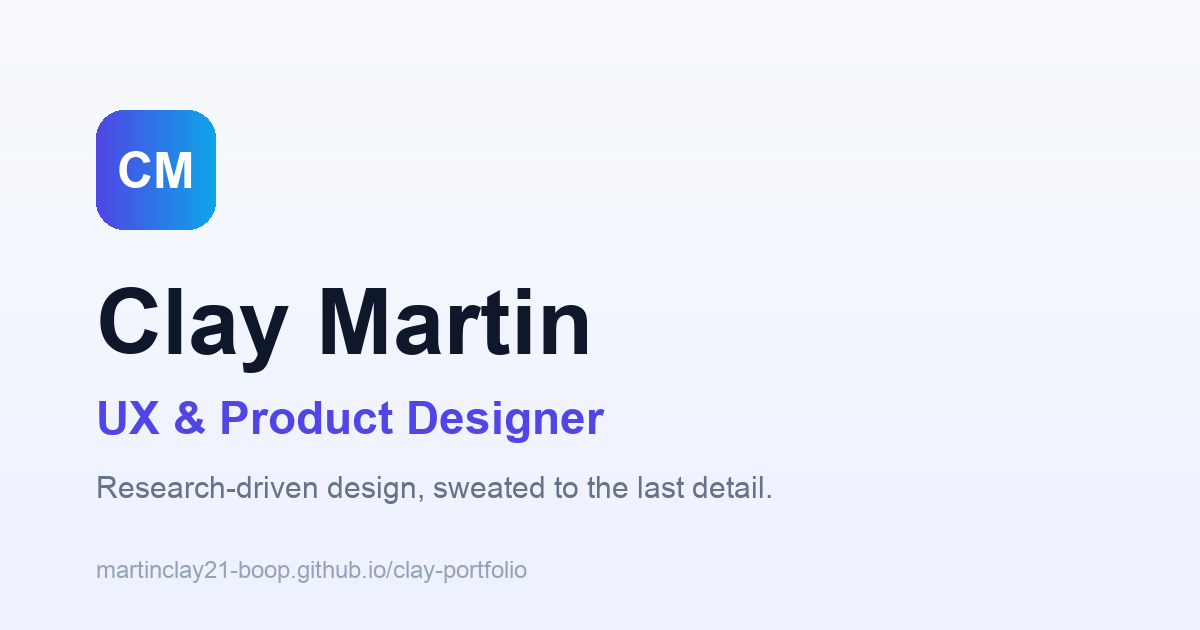
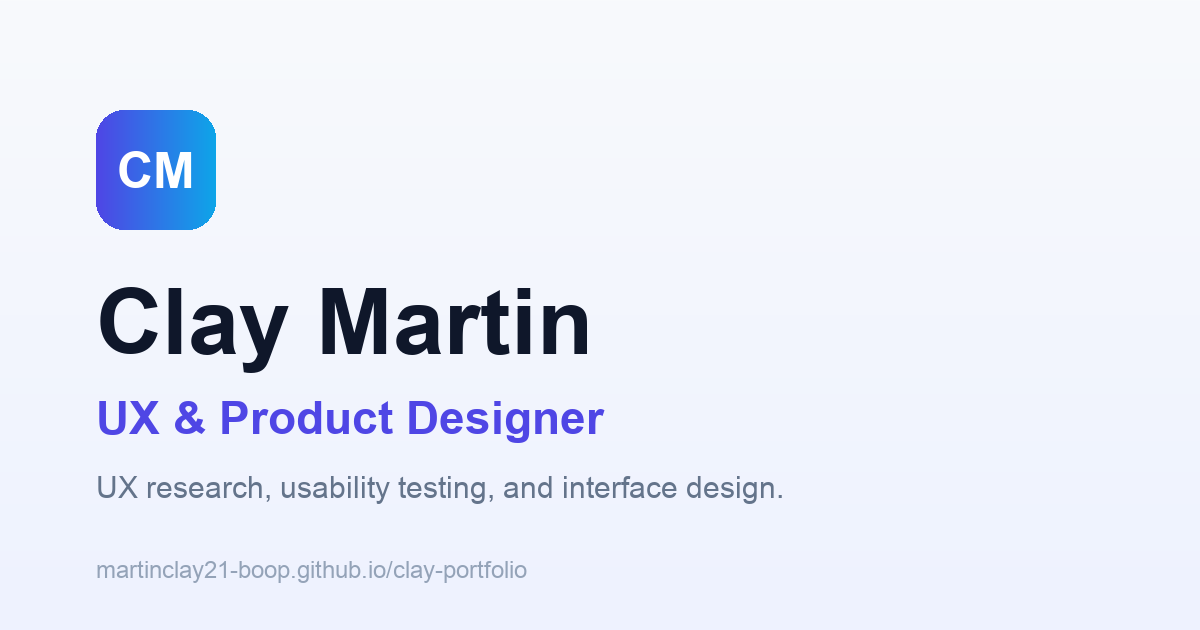
Recalibrate voice: plain, industry-standard UX language
Per Clay: he'd never actually say "root need" or "sweat the details," and
the copy leaned too hard on those as recurring motifs, reading as a
manufactured voice. Rewrote toward plain, industry-standard language that
is more informative and less first-person story, while staying readable.

- Removed the crutch phrases site-wide (root need, sweat the details,
  puzzle / no single right answer, let it fail, the small stuff, chasing
  that feeling, eye for composition)
- Hero (all lenses): recruiter "Research-backed product design"; designer
  "Grounded in research and iteration"; default + subs now describe the
  actual process (research, wireframing, prototyping, usability testing)
- Designer process strip renamed to standard UX stages: Research,
  Synthesize, Wireframe, Prototype & test, Iterate & refine
- About: bio rewritten as an informative summary of skills and process;
  "What I believe" -> "My approach" with concrete method statements
- Also the surgical humanizer fixes: SpeakSyncAI (passive + "not a
  feature" parallelism) and MU Luxembourg (brochure-y phrasing)
- Updated meta/OG description and regenerated the share image tagline
  ("UX research, usability testing, and interface design")

Verified in-browser: new hero/process/about copy renders across lenses,
zero crutch phrases on the page, build clean.

Changed region(s): [[0.0617, 0.754, 0.6475, 0.8143]]

diff --git a/components/audience/content.ts b/components/audience/content.ts
@@ -60,7 +60,7 @@ export const HERO_DEFAULT: HeroCopy = {
   showBadge: true,
   headLead: "Hi, I'm Clay Martin,",
   headAccent: "UX designer & researcher.",
-  sub: "I start every project with the root need, the real thing someone's trying to do, then treat the rest like a puzzle worth solving: research, iteration, and a lot of care for the small details.",
+  sub: "I work across the full UX process, from user research and wireframing to prototyping in Figma and usability testing. My focus is understanding the real problem before designing the solution, then refining it until it holds up with users.",
   primary: { label: "View my work", href: "#projects" },
   secondary: { label: "Contact me", href: "#contact" },
 };
@@ -69,9 +69,9 @@ export const HERO_BY_AUDIENCE: Record<Audience, HeroCopy> = {
   recruiter: {
     eyebrow: "For recruiters & hiring managers",
     showBadge: true,
-    headLead: "Research in,",
-    headAccent: "experiences that work out.",
-    sub: "UX designer and researcher with two internships and six end-to-end case studies. I find the root need, sweat the details, and keep a team's work feeling cohesive.",
+    headLead: "Research-backed",
+    headAccent: "product design.",
+    sub: "UX designer and researcher with two design internships and six end-to-end case studies. Strong in user research, usability testing, and turning findings into clear, accessible interfaces.",
     primary: { label: "See the work", href: "#projects" },
     secondary: { label: "Get in touch", href: "#contact" },
     resume: { label: "Résumé", href: RESUME_HREF },
@@ -85,9 +85,9 @@ export const HERO_BY_AUDIENCE: Record<Audience, HeroCopy> = {
   designer: {
     eyebrow: "For fellow designers",
     showBadge: false,
-    headLead: "Design is a puzzle",
-    headAccent: "with no single right answer.",
-    sub: "So I start with context and the root need, look everywhere for inspiration, then interpret and build, and let it fail a few times until the small stuff is right.",
+    headLead: "Grounded in",
+    headAccent: "research and iteration.",
+    sub: "My process is research-led: interviews and usability testing up front, then synthesis, wireframing, and several rounds of iteration before anything ships.",
     primary: { label: "See my process", href: "#projects" },
     secondary: { label: "Talk craft", href: "#contact" },
   },
@@ -110,23 +110,23 @@ export interface AboutCopy {
   headAccent: string;
 }
 export const ABOUT_DEFAULT: AboutCopy = {
-  headLead: "I design by starting with the",
-  headAccent: "root need.",
+  headLead: "How I",
+  headAccent: "approach design.",
 };
 export const ABOUT_BY_AUDIENCE: Record<Audience, AboutCopy> = {
-  recruiter: { headLead: "A designer who ships,", headAccent: "root need to final pixel." },
-  designer: { headLead: "Backed by purpose,", headAccent: "shaped by iteration." },
+  recruiter: { headLead: "A designer who ships,", headAccent: "research to final pixel." },
+  designer: { headLead: "Grounded in research,", headAccent: "refined by iteration." },
 };
 export function aboutFor(a: Audience | null): AboutCopy {
   return a ? ABOUT_BY_AUDIENCE[a] : ABOUT_DEFAULT;
 }
 
-// What I believe — short design principles, in Clay's voice (About section)
+// How I work — concrete method statements (About section)
 export const PRINCIPLES: { t: string; d: string }[] = [
-  { t: "Start with the root need", d: "A design out of context is just decoration. I get the real need first." },
-  { t: "There's no single right answer", d: "Only the best interpretation of the problem in front of me." },
-  { t: "Iteration over perfection", d: "You build, it fails, and each failure shows you the next thing to fix." },
-  { t: "Purpose first, polish last", d: "Backed by research, but it should still look good and feel effortless." },
+  { t: "Understand the problem first", d: "I dig into user needs and requirements before proposing a solution, so the design solves the actual problem." },
+  { t: "Test with real users", d: "Usability testing and feedback guide the work instead of assumptions." },
+  { t: "Iterate toward the details", d: "I refine through multiple rounds, down to spacing, hierarchy, and interaction states." },
+  { t: "Design for accessibility", d: "Contrast, structure, and clear interaction are built in from the start, not added at the end." },
 ];
 
 // ---- Skills section intro line, per lens ----
@@ -150,7 +150,7 @@ export const RECRUITER_TLDR = {
   quote:
     "His contributions served as the connective tissue of the sprint. Wherever something felt disconnected, he stepped in and made it feel cohesive.",
   highlights: [
-    "6 end-to-end case studies, from root need to tested, high-fidelity prototypes",
+    "6 end-to-end case studies, from research to tested, high-fidelity prototypes",
     "2 design internships (Damar Staffing and Spokenote)",
     "ICAgile Certified · IRB (Human-Subjects) Certified",
   ],
@@ -160,11 +160,11 @@ export const RECRUITER_TLDR = {
 
 // Designer: the "how I work" process strip
 export const DESIGNER_PROCESS: { step: string; blurb: string }[] = [
-  { step: "Find the root need", blurb: "First I get clear on what's actually being asked, and the context it lives in. Miss this and everything after is off." },
-  { step: "Gather the pieces", blurb: "I look everywhere for inspiration and dig into real user needs. No single right answer, so I collect a lot before I commit." },
-  { step: "Interpret & build", blurb: "All of it turns into wireframes and flows, something that does exactly what was asked, and maybe a little more." },
-  { step: "Test, and let it fail", blurb: "I put it in front of real people expecting it to break. Every failure points straight to the next fix." },
-  { step: "Sweat the details", blurb: "Then the small stuff, a color a shade off, a button a few pixels over. Nothing's ever perfect, but it gets close." },
+  { step: "Research", blurb: "Interviews, surveys, and usability testing to understand user needs and the problem behind the request." },
+  { step: "Synthesize", blurb: "Turn findings into journey maps, user flows, and a clear problem statement the team can align on." },
+  { step: "Wireframe", blurb: "Low-fidelity structure first: hierarchy, layout, and content before any visual polish." },
+  { step: "Prototype & test", blurb: "High-fidelity Figma prototypes, then usability testing with real users to catch what doesn't work." },
+  { step: "Iterate & refine", blurb: "Multiple rounds of refinement, down to spacing, states, and accessibility, before it ships." },
 ];
 
 // ---- Per-lens project treatment ----

diff --git a/components/About.tsx b/components/About.tsx
@@ -55,34 +55,31 @@ export default function About() {
             <div className="space-y-4 text-slate-600 leading-relaxed text-base">
               <p>
                 I'm a UX and product designer finishing my B.A. in Emerging
-                Technology at Miami University. I've always had an eye for
-                composition. In drawing, photography, and design, I can usually
-                feel when something is right before I can explain why. A lot of
-                what I do is chasing that feeling, then backing it up with
-                research.
+                Technology at Miami University. I work across the full process,
+                from user research and wireframing to prototyping in Figma and
+                usability testing, with a visual-design and branding background
+                from two internships.
               </p>
               <p>
-                The most important part of any project, for me, is understanding
-                the root need, what the client or user actually wants, and the
-                context the design lives in. From there it's a puzzle: there's
-                rarely one right answer, so I gather inspiration, dig into user
-                needs, and interpret all of it into something that does exactly
-                what was asked, and maybe a little more.
+                My focus is understanding the real problem before designing a
+                solution. I spend time on user research, requirements, and the
+                context a product lives in, then move through synthesis, user
+                flows, and iteration to reach something usable and accessible.
+                I've applied this across consumer apps, an accessibility
+                concept, a nonprofit website, and service design.
               </p>
               <p>
-                I also believe design only gets good through iteration. You
-                build, you test, it fails, and each failure points to the small
-                thing to change. Somewhere in all that group work I found out I
-                lead well, too. Teammates started calling me the &ldquo;glue&rdquo; of
-                the team. Turns out kindness and patience move people a lot
-                further than pressure ever could.
+                I also work well on a team. On group projects, teammates have
+                consistently described me as the person who keeps the work
+                cohesive and helps others get unstuck, and it's a role I've grown
+                to value.
               </p>
             </div>
 
             {/* What I believe */}
             <div className="mt-8">
               <p className="text-xs font-semibold uppercase tracking-widest mb-4" style={{ color: "var(--accent)" }}>
-                What I believe
+                My approach
               </p>
               <ul className="space-y-3">
                 {PRINCIPLES.map((p) => (

diff --git a/app/projects/speaksynci-ai/page.tsx b/app/projects/speaksynci-ai/page.tsx
@@ -108,13 +108,12 @@ export default function SpeakSyncAI() {
 
       <h2>Key Design Decisions</h2>
       <p>
-        Accessibility was treated as a foundation, not a feature. Every
-        decision, contrast ratios, tap target sizes, layout hierarchy, was
-        validated against accessibility standards. The interface stays
-        intentionally minimal so students can focus on the lecture, not the
-        app. Customizable font sizes, color themes, and playback controls give
-        each student control over the experience without overwhelming the
-        default view.
+        I treated accessibility as a starting requirement rather than a final
+        polish step. I checked contrast, tap-target sizes, and layout hierarchy
+        against accessibility standards throughout. The interface stays minimal
+        so students can focus on the lecture instead of the app, and
+        customizable font sizes, color themes, and playback controls let each
+        student adjust the experience without cluttering the default view.
       </p>
 
       <h2>Reflection</h2>

diff --git a/app/projects/mu-luxembourg/page.tsx b/app/projects/mu-luxembourg/page.tsx
@@ -147,12 +147,11 @@ export default function MULuxembourg() {
 
       <h2>Outcome</h2>
       <p>
-        The project delivered a fully functional, multilingual (English, French,
-        German) WordPress website for the Miami University Luxembourg
-        Foundation, a clean, donor-focused experience designed to build trust
-        with European audiences and facilitate international giving. The
-        usability testing phase confirmed that core flows were navigable and
-        helped surface improvements to the donation flow before launch.
+        We delivered a fully functional, multilingual (English, French, German)
+        WordPress site for the Miami University Luxembourg Foundation, with a
+        clean, donor-focused layout aimed at European audiences and
+        international giving. Usability testing confirmed the core flows were
+        navigable and surfaced improvements to the donation flow before launch.
       </p>
 
       <h2>Wireframes</h2>

diff --git a/components/audience/SignatureModule.tsx b/components/audience/SignatureModule.tsx
@@ -94,14 +94,13 @@ function DesignerProcess() {
             How I work
           </p>
           <h2 className="text-3xl sm:text-4xl font-bold text-slate-900 mb-3 leading-tight">
-            Polish is the{" "}
+            A research-led process,{" "}
             <span className="font-[family-name:var(--font-serif)] italic font-normal" style={{ color: "var(--accent)" }}>
-              last step
+              start to finish.
             </span>
-            , not the first.
           </h2>
           <p className="text-slate-500 text-base max-w-xl mb-12">
-            Every project runs the same loop, starting with the real need and letting the work fail a few times before I call it done.
+            Every project moves through the same stages, from understanding the problem to testing with users and refining before it ships.
           </p>
         </Reveal>
 

diff --git a/app/layout.tsx b/app/layout.tsx
@@ -17,7 +17,7 @@ const serif = Instrument_Serif({
 const SITE = "https://martinclay21-boop.github.io/clay-portfolio";
 const TITLE = "Clay Martin, UX & Product Designer";
 const DESCRIPTION =
-  "Portfolio of Clay Martin, a UX and product designer who starts with the root need and solves the rest like a puzzle: research, iteration, and care for the details.";
+  "Portfolio of Clay Martin, a UX and product designer focused on user research, usability testing, and turning findings into clear, accessible interfaces.";
 
 export const metadata: Metadata = {
   metadataBase: new URL(`${SITE}/`),
